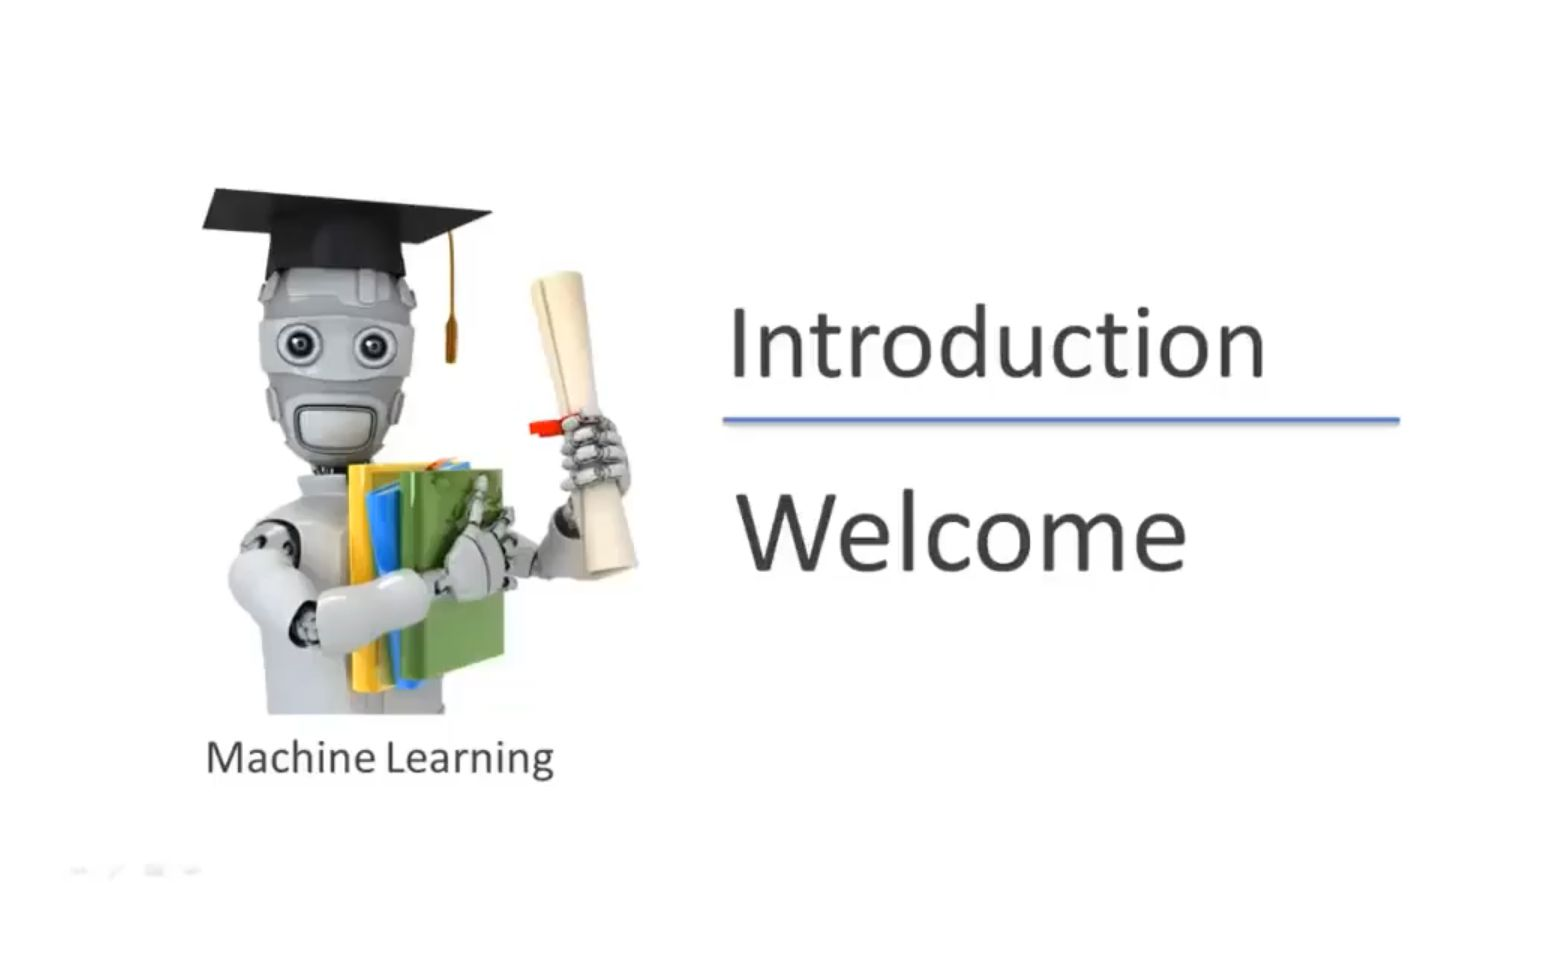
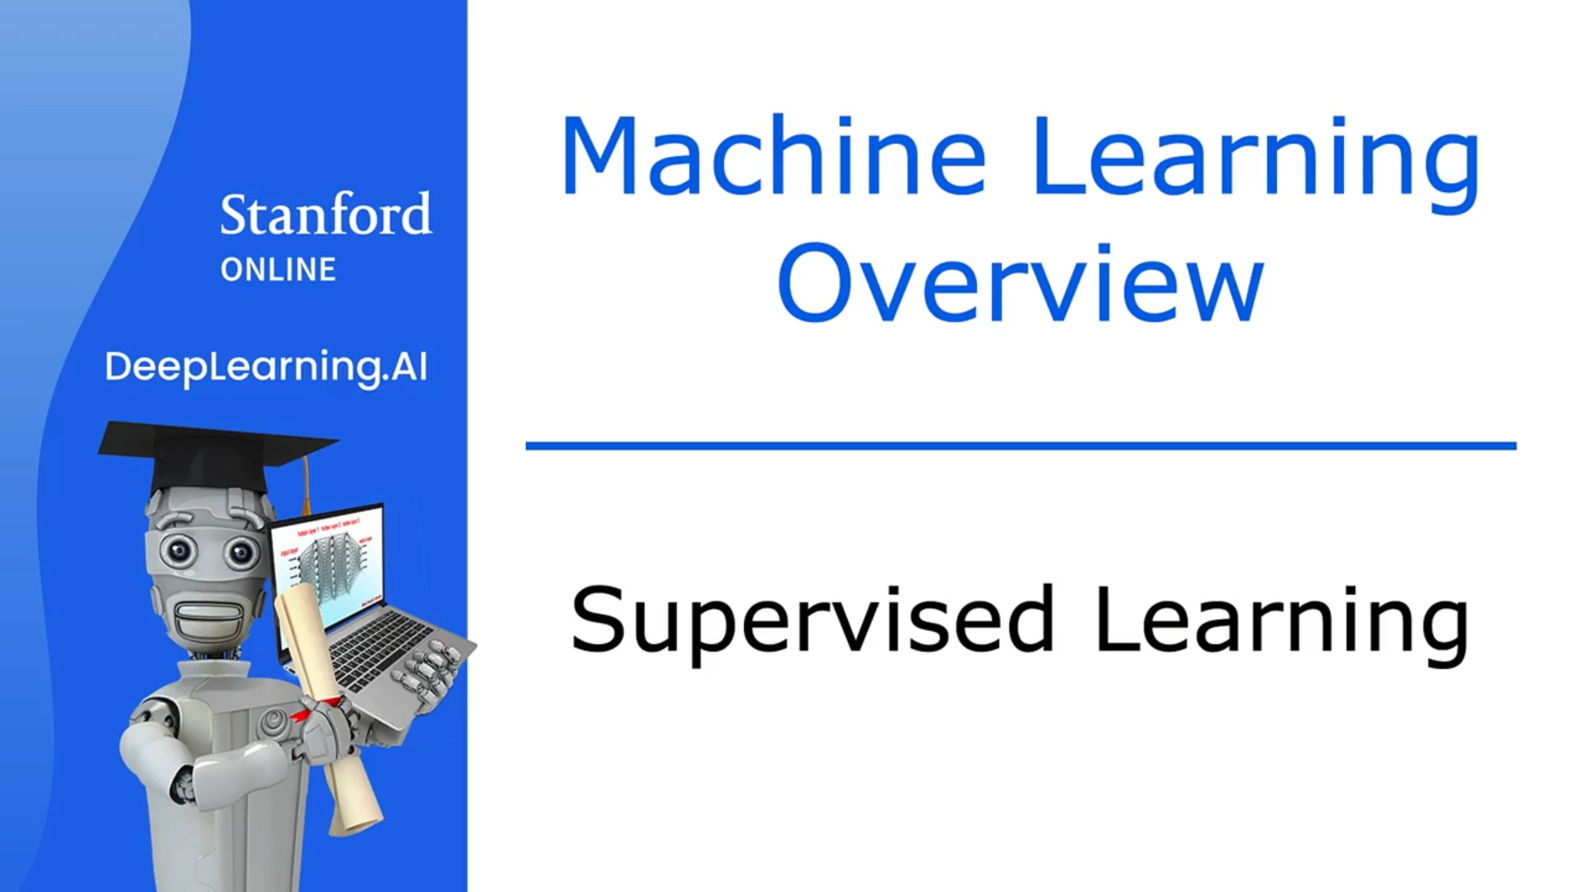
1

diff --git a/source/_posts/吴恩达机器学习/吴恩达机器学习(二)：高级算法学习.md b/source/_posts/吴恩达机器学习/吴恩达机器学习(二)：高级算法学习.md
@@ -1,0 +1,152 @@
+---
+title: 吴恩达机器学习(二):高级算法学习
+tags: 机器学习
+categories: 机器学习
+top_img: ../image/吴恩达机器学习/吴恩达机器学习(二)/cover.png
+date: 2024-05-10 00:00:00
+copyright: false
+description: 吴恩达机器学习(二)
+cover: ../image/吴恩达机器学习/吴恩达机器学习(二)/cover.png
+---
+
+# 高级算法学习
+
+# 一、神经网络
+**人工神经网络**（Artificial Neural Network，即ANN ），是20世纪80 年代以来人工智能领域兴起的研究热点。它从信息处理角度对人脑神经元网络进行抽象， 建立某种简单模型，按不同的连接方式组成不同的网络。在工程与学术界也常直接简称为神经网络或类神经网络。神经网络是一种运算模型，由大量的节点（或称神经元）之间相互联接构成。每个节点代表一种特定的输出函数，称为激励函数（activation function）。每两个节点间的连接都代表一个对于通过该连接信号的加权值，称之为权重，这相当于人工神经网络的记忆。网络的输出则依网络的连接方式，权重值和激励函数的不同而不同。而网络自身通常都是对自然界某种算法或者函数的逼近，也可能是对一种逻辑策略的表达。
+## 1.1 需求预测
+为了能更加直观地认识神经网络，我们可以从一个简单的需求预测案例开始。
+加入我们现在已知一件衣服的价格，那么如何预测其是否畅销呢？
+首先我们可以利用前面学到过的逻辑回归sigmoid函数进行拟合：
+![](/image/吴恩达机器学习/吴恩达机器学习(二)/demand_prediction1.png)
+我们的输入是衣服的价格，输出则是由sigmoid函数得到的畅销概率$f(x)=sigmoid(wx+b)$，我们将$f(x)$记为$a(activation)$，现在我们可以将这个单个的逻辑单元视为神经网络中的一个神经元，它的输入是衣服的价格$price$，输出则是改衣服成为畅销产品的概率$a$。
+![](/image/吴恩达机器学习/吴恩达机器学习(二)/demand_prediction2.png)
+这就是神经网络中的一个最简单的神经元模型。
+
+假如我们现在已知四种关于该衣服的参数，分别是：价格$price$、运费$shipping cost$、市场营销$marketing$、材料$material$。现在我们要利用这四个特征来对该种衣服的畅销度进行预测，那么我们首先可能会考虑到影响该件衣服畅销度的几个因素，比如：该衣服的负担能力$affordability$、衣服的知名度$awareness$以及该衣服的质量$perceived qualify$。其中，我们会认为影响负担能力的因素有价格和运费，影响知名度的因素有市场营销，而影响感知质量的因素有价格和衣服的材料。通过对这三个中间因素的分析，我们最后可以评测这件衣服是否能成为畅销品。
+![](/image/吴恩达机器学习/吴恩达机器学习(二)/demand_prediction3.png)
+在神经网络中，我们将最初的四个特征划为一层，称之为输入层，最后的输出划为一层，称之为输出层，中间的三个特征我们称之为激活值，将他们三个为一层称之为隐藏层。在一个神经网络中，隐藏层可能只有一层，也可能有很多层。
+![](/image/吴恩达机器学习/吴恩达机器学习(二)/demand_prediction4.png)
+当神经网络比较小的时候，我们可以很容易的找到输入层与隐藏层特征之间的关系，但是在大型神经网络中，由于输入特征有很多，我们无法一个个地选择隐藏层与输入层特征之间的关系，所以我们可以采用前面学到过的特征工程，使激活值可以访问输入的任何一个特征，从而实现神经网络的链接。
+![](/image/吴恩达机器学习/吴恩达机器学习(二)/demand_prediction5.png)
+
+## 1.2 神经网络中的层
+现在有一个神经网络，我们将向量$\vec x$作为输入值输入，在第一层神经网络中进行计算。在第一层中有三个神经元，这三个神经元每一个都可以实现一个小型的逻辑回归单元，每一个神经元都有两个参数：$\vec w$和$b$，它们的作用是输出一些激活值$a=g(\vec w \cdot \vec x +b)$，其中$g$表示sigmoid函数。为了方便我们将第一个神经元的参数以及输出的激活值表示为$\vec w_1,b_1,a_1$，以此类推，最终得到该层的输出值$\vec a$。
+![](/image/吴恩达机器学习/吴恩达机器学习(二)/neural_network_layer1.png)
+之后我们将该层的输出作为输出层的输入输入到下一层，经过输出层的神经元计算最后得出最终输出$a=g(\vec w_1 \cdot \vec a +b_1)$，再根据该输出对衣服的畅销度进行预测。
+![](/image/吴恩达机器学习/吴恩达机器学习(二)/neural_network_layer2.png)
+为了更好的区分每一层的输出，我们一般会在右上角加上中括号以及该层的层数，如第一层的三个神经元参数分别记为$\vec w^{[1]}_1,b^{[1]}_1$，$\vec w^{[1]}_2,b^{[1]}_2$,$\vec w^{[1]}_3,b^{[1]}_3$，第一层输出的激活值为$\vec a^{[1]}$。
+
+如果我们将输入层作为第0层，那么我们可以得到一个通用的公式：第$l$层的第$j$个神经元输出$a^{[l]}_j=g(\vec w^{[l]}_j \cdot \vec a^{[l-1]} + b^{[l]}_j)$
+![](/image/吴恩达机器学习/吴恩达机器学习(二)/notation.png)
+
+## 1.3 代码实现
+### 1.3.1 代码实现神经网络
+现在我们使用一个烘焙咖啡的案例来学习如何使用代码实现神经网络的层。
+我们输入的特征值有两个，分别是烘焙温度和烘焙时间
+![](/image/吴恩达机器学习/吴恩达机器学习(二)/coffee_roasting1.png)
+我们可以将其简化为一个三层的神经网络，
+![](/image/吴恩达机器学习/吴恩达机器学习(二)/coffee_roasting2.png)
+我们的输入值为$\vec x$，它包含两个特征值，分别是烘焙温度和烘焙时间。该神经网络的第一层共有三个神经元，输出值为$\vec a^{[1]}$，用代码可表示为：
+```python
+x = np.array([[200.0, 17.0]]) # 其中200为烘焙温度，17为烘焙时间
+layer_1 = Dense(units=3, activation='sigmoid') # Dense是该层的名字，units=3表示该层的神经元个数为3个，activation='sigmoid'表示该层使用的激活函数为sigmoid
+a1 = layer_1(x)
+```
+之后将第一层的输出值$\vec a^{[1]}$作为第二层的输入值进行计算，输出为$\vec a^{[2]}$，用代码可以表示为：
+```python
+layer_2 = Dense(units=1, activation='sigmoid') # Dense是该层的名字，units=3表示该层的神经元个数为3个，activation='sigmoid'表示该层使用的激活函数为sigmoid
+a2 = layer_1(a1)
+```
+最终我们可以通过输出值a2来判断烘焙温度和烘焙时间是否合适：
+```python
+if a2 >= 0.5:
+  y_hat = 1
+else:
+  y_hat=0
+```
+
+### 1.3.2 搭建一个神经网络
+在之前的代码中，我们需要手动输入下一层的输入值，现在我们可以使用新的方法来更方便地搭建一个神经网络。
+![](/image/吴恩达机器学习/吴恩达机器学习(二)/model1.png)
+在新的方法中，我们可以使用相同的方法来构建每一层，但与之前不同的是，我们现在可以使用顺序函数Sequential来将相邻的两层连接起来，实现代码如下：
+```python
+layer_1 = Dense(units=3, activation='sigmoid')
+layer_2 = Dense(units=1, activation='sigmoid')
+model = Sequential([layer_1], layer_2)
+x = np.array([[200.0, 17.0],
+              [120.0, 5.0],
+              [425.0, 20.0],
+              [212.0, 18.0]])
+y = np.array([1, 0, 0, 1])
+# 通过使用编译函数compile和适应函数fit对模型进行训练
+model.compile(...) 
+model.fit(x, y)
+
+#当我们需要进行预测时，只需要输入预测参数即可
+model.predict(x_new)
+```
+
+## 1.4 前向传播
+### 1.4.1 单层上的前向传播
+在上节中我们分析了如何用代码实现神将网络的搭建，本节我们来具体分析一下实现的具体过程。
+![](/image/吴恩达机器学习/吴恩达机器学习(二)/forward_prop.png)
+其中输入值为$\vec x$，第一层输出值为$\vec a^[1]$，第二层输出值为$\vec a^[2]$，代码内部实现如下：
+```python
+x = np.array([200, 17])
+
+# 第一层内部计算
+w1_1 = np.array([1, 2])
+b1_1 = np.array([-1])
+z1_1 = np.dot(w1_1,x)+b1_1
+a1_1 = sigmoid(z1_1)
+
+w1_2 = np.array([-3, 4])
+b1_2 = np.array([1])
+z1_2 = np.dot(w1_2,x)+b1_2
+a1_2 = sigmoid(z1_2)
+
+w1_3 = np.array([5， -6])
+b1_3 = np.array([2])
+z1_3 = np.dot(w1_3,x)+b1_3
+a1_3 = sigmoid(z1_3)
+
+# 最后组合得到向量a1
+a1 = np.array([a1_1, a1_2, a1_3])
+
+# 第二层内部计算
+w2_1 = np.array([-7, 8, -9])
+b2_1 = np.array([3])
+z2_1 = np.dot(w2_1,a1)+b2_1
+a2_1 = sigmoid(z1_3) 
+
+# 最终得到输出为a2
+a2 = a2_1
+```
+
+### 1.4.2 利用Numpy实现前向传播
+
+![](/image/吴恩达机器学习/吴恩达机器学习(二)/forward_prop_in_numpy.png)
+
+密集函数Dense的实现：
+```python
+def dense(a_in,W,b,g):
+  units = W.shape[1] # W大写表示他是一个矩阵，W.shape[0]表示矩阵的行数，W.shape[1]表示矩阵的列数
+  a_out = np.zeros(units) # 初始化一个包含units个元素的数组
+  for j in range(units): 
+    w=W[:,j] # W[:,j]表示从矩阵W中取出第j列赋值给w
+    z=np.dot(w,a_in)+b[j]
+    a_out[j] = g(z) # g函数为激活函数
+  return a_out
+```
+
+顺序函数Sequential的实现：
+```python
+def sequential(x):
+  a1 = dense(x, W1, b1)
+  a2 = dense(a1, W2, b2)
+  a3 = dense(a2, W3, b3)
+  a4 = dense(a3, W4, b4)
+  f_x = a4
+  return f_x
+```
+

diff --git a/source/_posts/吴恩达机器学习/吴恩达机器学习(一)：监督学习.md b/source/_posts/吴恩达机器学习/吴恩达机器学习(一)：监督学习.md
@@ -9,7 +9,7 @@ description: 吴恩达机器学习(一)
 cover: ../image/吴恩达机器学习/吴恩达机器学习(一)/cover.jpg
 ---
 
-# 机器学习
+# 监督学习
 
 **机器学习（Machine Learning）**，简称ML，专门研究计算机怎样模拟或实现人类的学习行为，以获取新的知识或技能，重新组织已有的知识结构使之不断改善自身的性能。
 